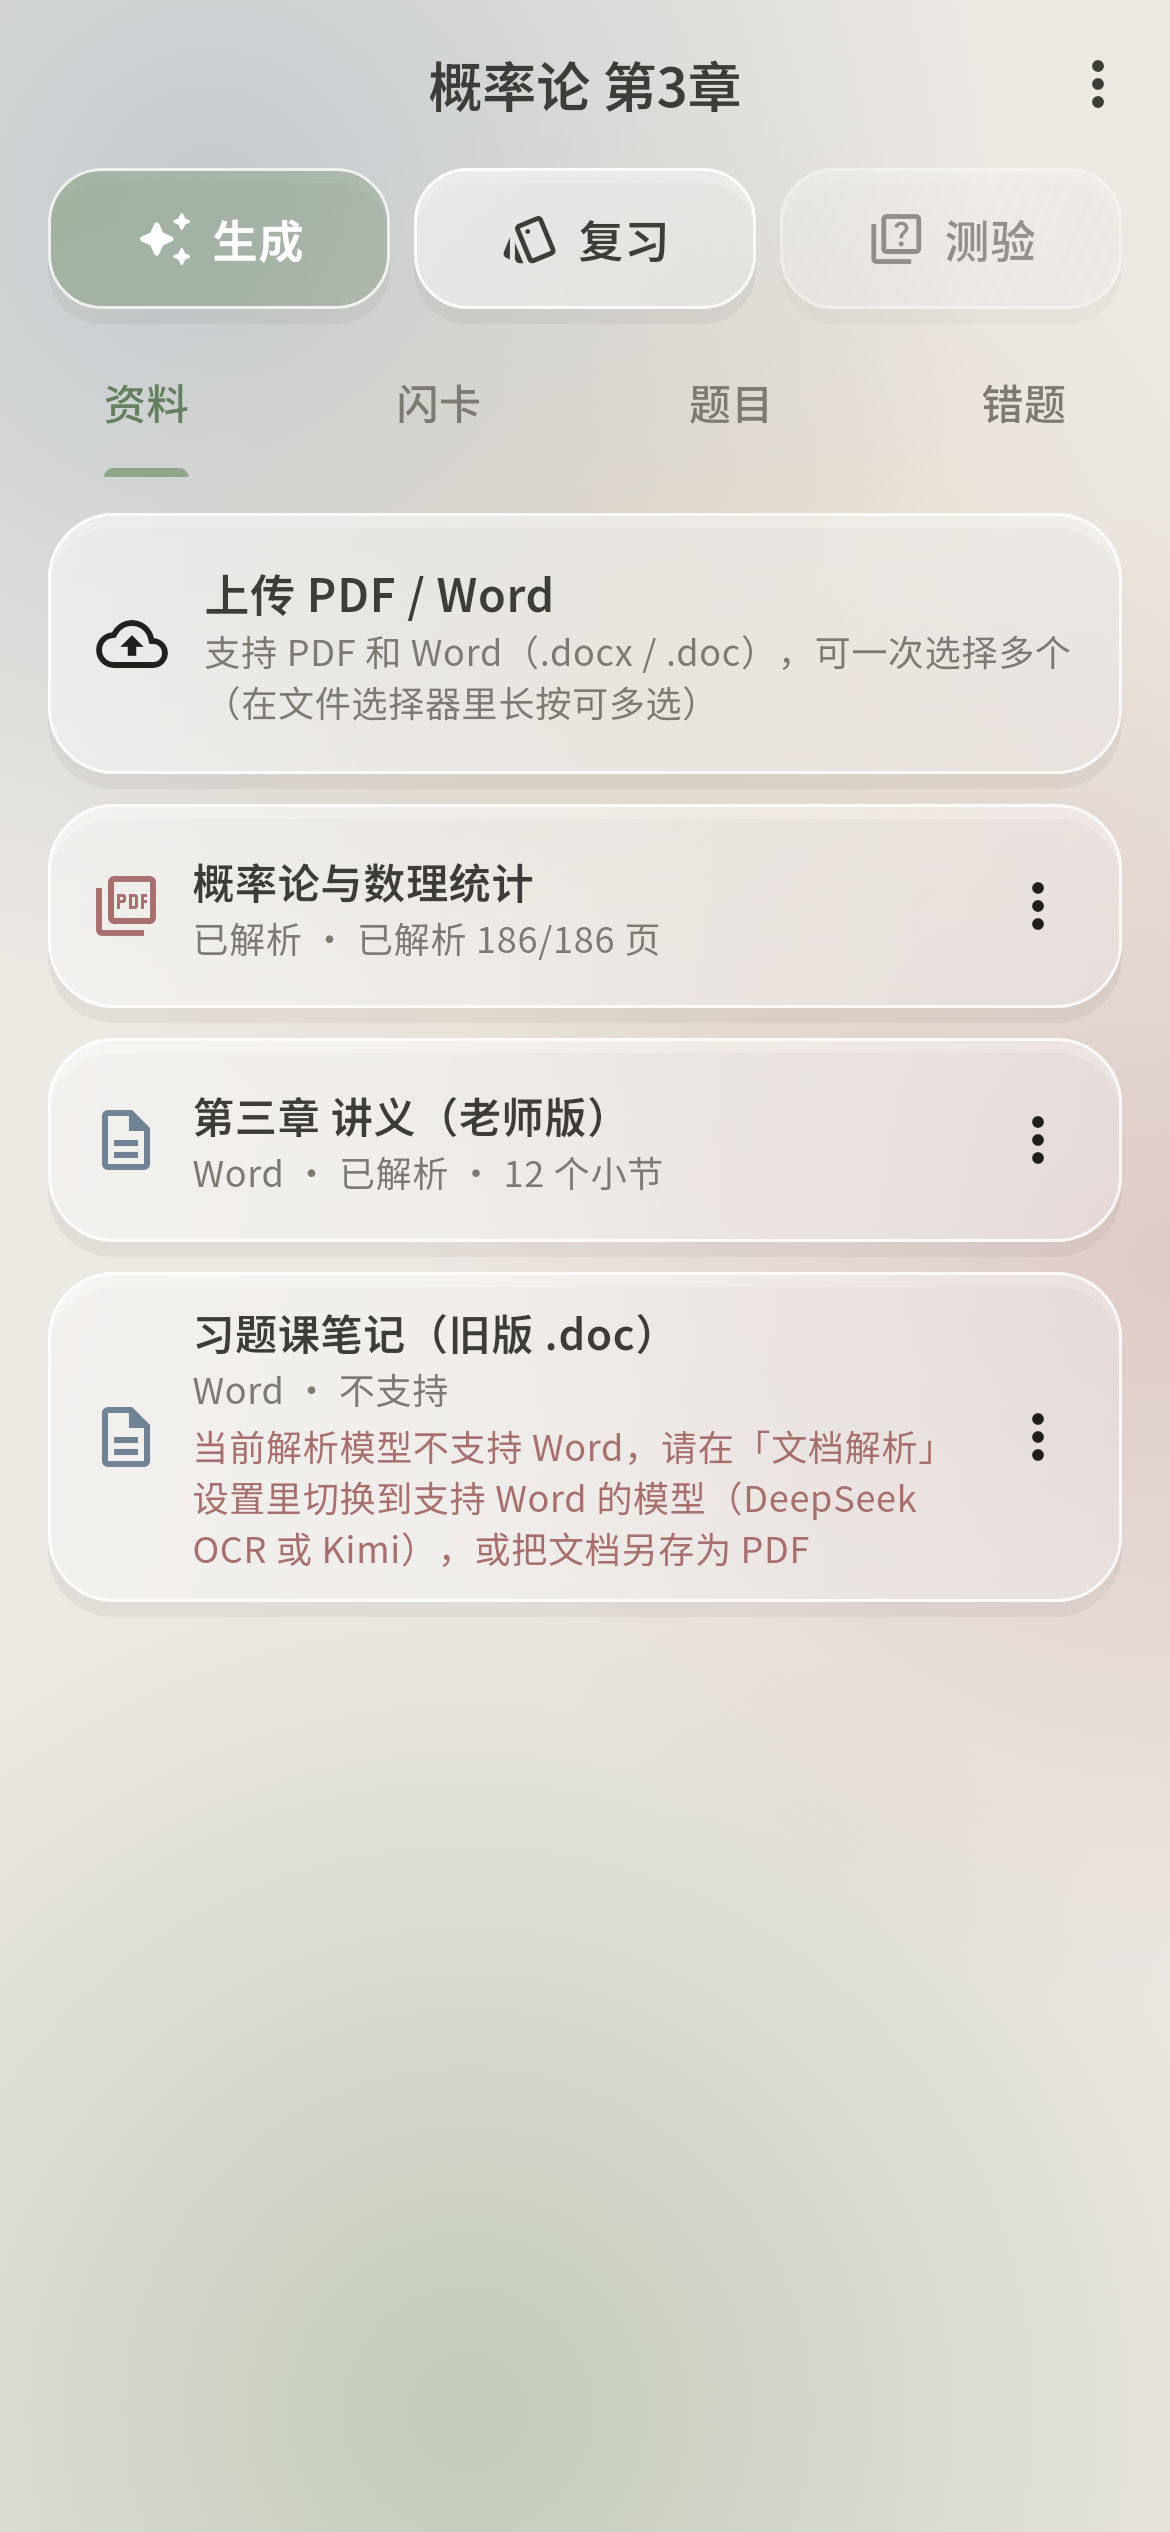
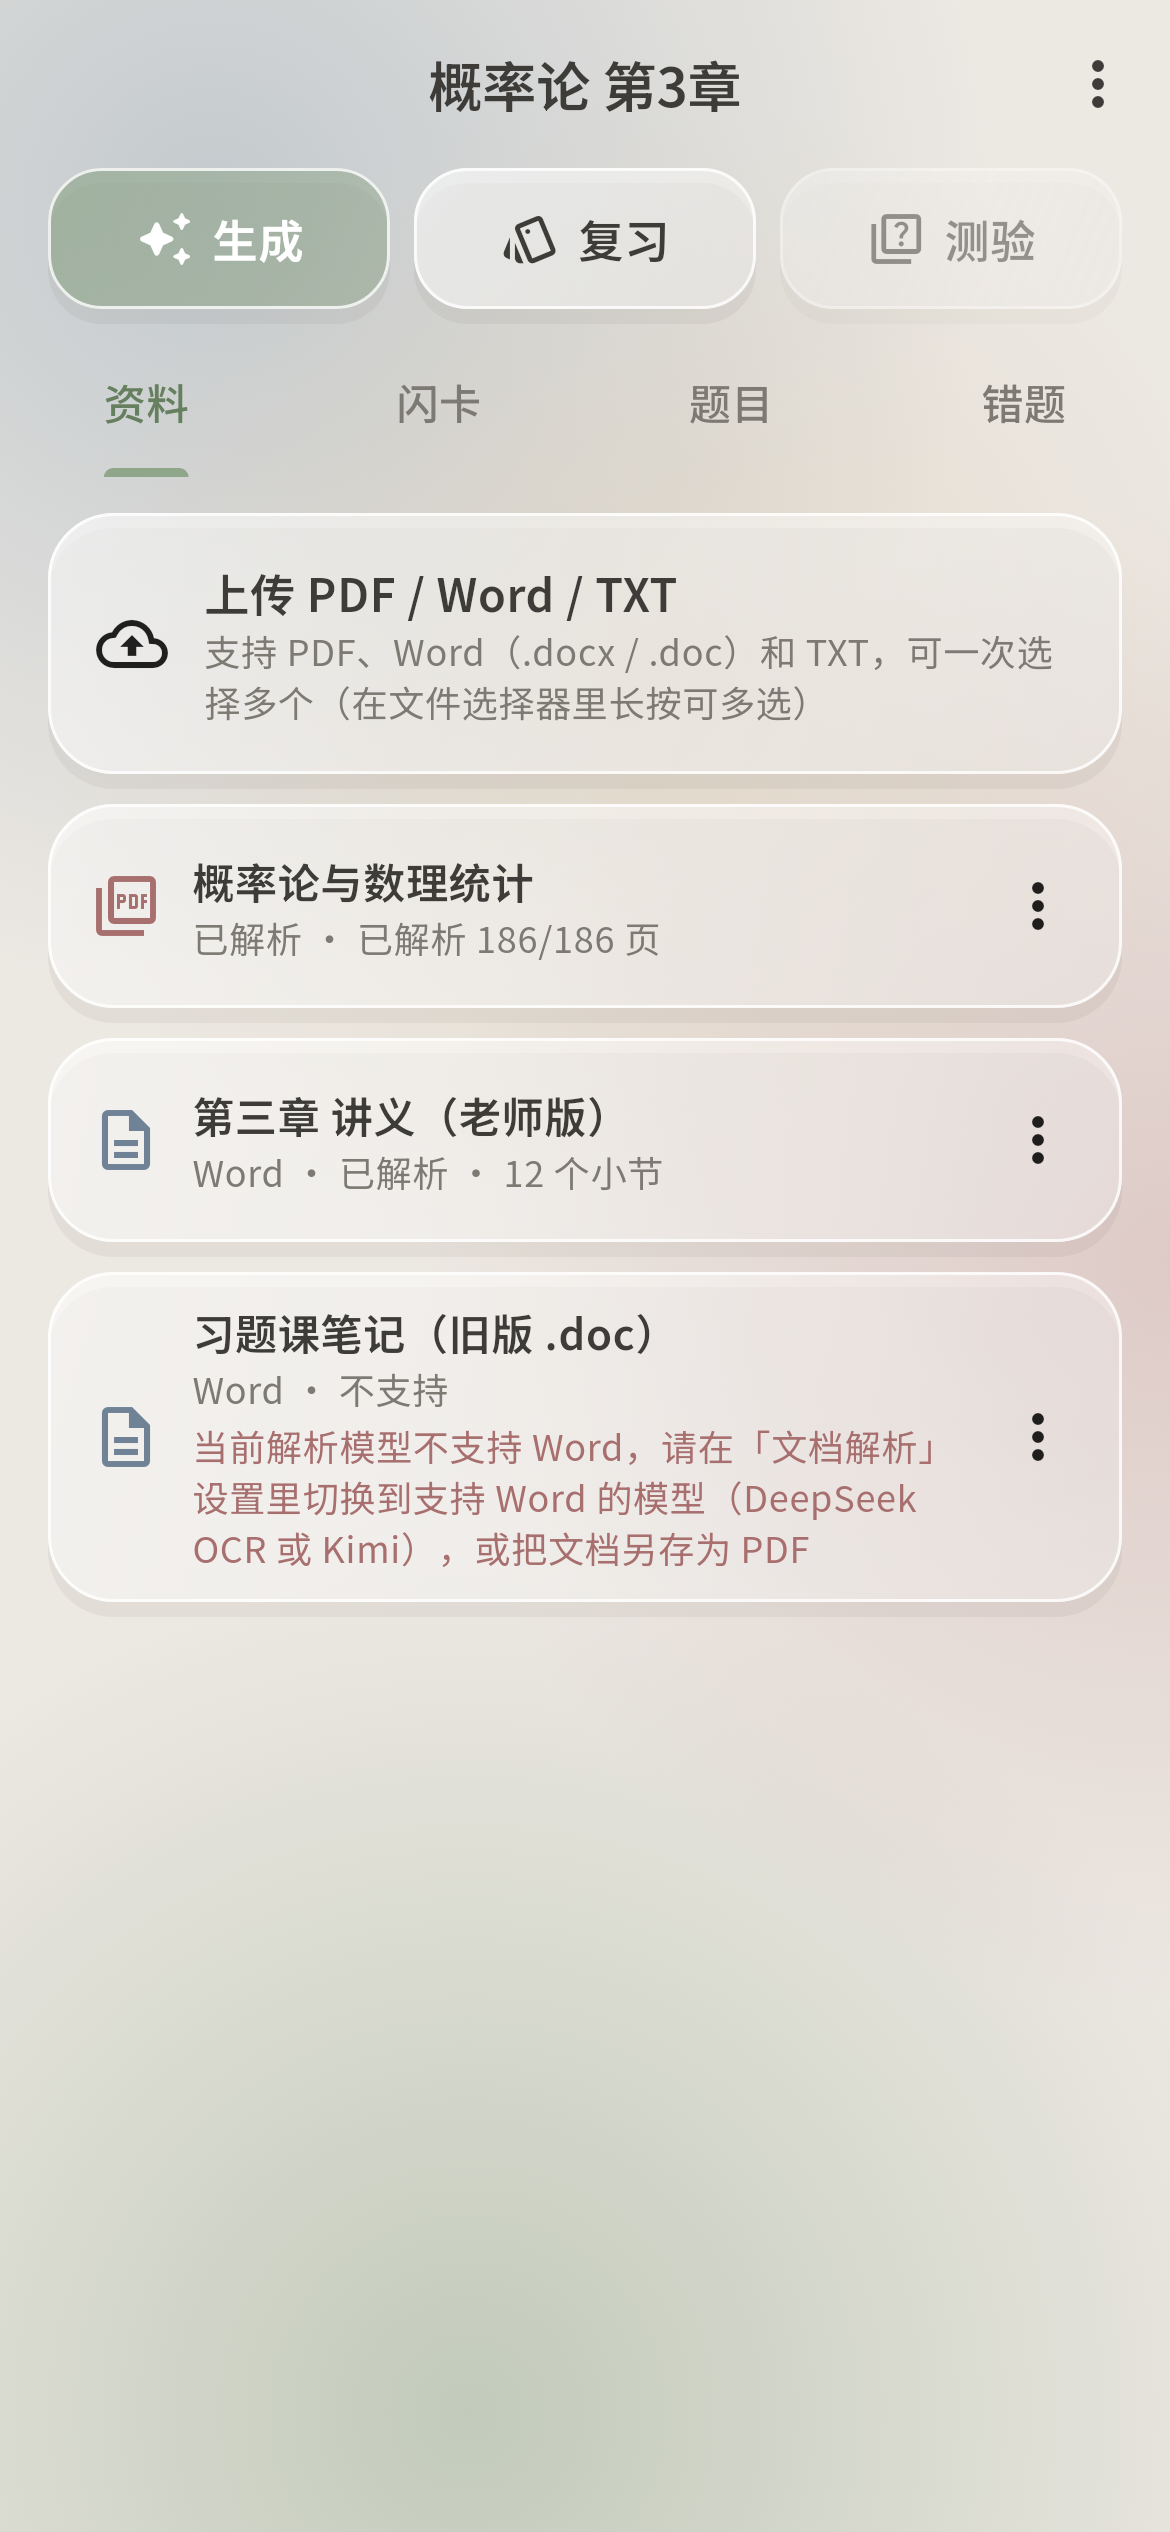
chore: v1.3.5+18 版本号、更新日志与截图

Changed region(s): [[0.1846, 0.2184, 0.7385, 0.2808], [0.7692, 0.2496, 0.8923, 0.2808]]

diff --git a/README.md b/README.md
@@ -16,7 +16,7 @@
 
 </div>
 
-闪卡刷题是一款开源的 Android 学习应用。导入 PDF 或 Word 教材后，AI 会提炼知识点，生成闪卡和多种题型的练习题，并用 FSRS 算法安排复习。公式按教材排版显示，所有学习数据只保存在你的手机上。
+闪卡刷题是一款开源的 Android 学习应用。导入 PDF、Word 或 TXT 教材后，AI 会提炼知识点，生成闪卡和多种题型的练习题，并用 FSRS 算法安排复习。公式按教材排版显示，所有学习数据只保存在你的手机上。
 
 ## 截图
 
@@ -50,13 +50,15 @@
     <td align="center"><img src="docs/screenshots/30_help_article.png" width="190"><br><sub>帮助文章</sub></td>
     <td align="center"><img src="docs/screenshots/31_table_render.png" width="190"><br><sub>表格显示</sub></td>
     <td align="center"><img src="docs/screenshots/32_latex_text.png" width="190"><br><sub>LaTeX 文本格式</sub></td>
+    <td align="center"><img src="docs/screenshots/34_txt_doc.png" width="190"><br><sub>TXT 资料</sub></td>
   </tr>
 </table>
 
 ## 功能
 
 **资料与生成**
-- 支持 PDF 和 Word（.docx / .doc），可批量导入，每份资料单独显示进度
+- 支持 PDF、Word（.docx / .doc）和 TXT，可批量导入，每份资料单独显示进度
+- TXT 在手机上直接读取（不联网、不花钱），自动识别 UTF-8 / UTF-16 / GBK 编码，按段落切成小节后照常分章
 - 扫描版 PDF 也能识别，公式保留为 LaTeX
 - 自动识别章节（书签、目录页、标题格式，识别不到时由 AI 分章），也可手动编辑
 - 章节内容：按页查看每章解析出的原文（公式按教材样式排版），可切换章节、搜索高亮、复制，显示解析来源，一键「用这章出题」
@@ -132,11 +134,13 @@ SHA-256: f5:ec:04:9f:25:ef:21:59:36:28:23:59:4a:08:49:46:f5:66:6d:cc:54:35:19:b9
 | Kimi 文件解析 | ✓ | ✓ | — | 目前免费 |
 | 本地提取文字层 | ✓ | — | — | 免费，离线 |
 
+TXT 不受这里的设置影响，总是在手机上直接读取，免费、离线。
+
 ## 隐私
 
 - 资料、卡片、错题和学习记录只保存在本机，项目没有任何服务器。
 - API Key 存放在系统安全存储（Android Keystore）中。
-- 文档内容只会发送给你配置的服务商；选择「本地提取」时完全不联网。
+- 文档内容只会发送给你配置的服务商；选择「本地提取」时完全不联网；TXT 只在手机上读取，不会上传。
 - 导出的备份默认不含 API Key；只有手动勾选「包含 API 密钥」时才会写入（备份文件不加密，请勿外传）。
 
 ## 常见问题

diff --git a/README.en.md b/README.en.md
@@ -16,7 +16,7 @@
 
 </div>
 
-AI Flashcards (闪卡刷题) is an open-source study app for Android. Import a PDF or Word textbook and AI extracts the key points, generates flashcards and practice questions, and schedules your reviews with the FSRS algorithm. Formulas are typeset like a textbook, and all your study data stays on your phone.
+AI Flashcards (闪卡刷题) is an open-source study app for Android. Import a PDF, Word, or TXT textbook and AI extracts the key points, generates flashcards and practice questions, and schedules your reviews with the FSRS algorithm. Formulas are typeset like a textbook, and all your study data stays on your phone.
 
 > [!NOTE]
 > The app interface is currently available in Simplified Chinese only.
@@ -53,13 +53,15 @@ AI Flashcards (闪卡刷题) is an open-source study app for Android. Import a P
     <td align="center"><img src="docs/screenshots/30_help_article.png" width="190"><br><sub>Help article</sub></td>
     <td align="center"><img src="docs/screenshots/31_table_render.png" width="190"><br><sub>Tables</sub></td>
     <td align="center"><img src="docs/screenshots/32_latex_text.png" width="190"><br><sub>LaTeX text formatting</sub></td>
+    <td align="center"><img src="docs/screenshots/34_txt_doc.png" width="190"><br><sub>TXT files</sub></td>
   </tr>
 </table>
 
 ## Features
 
 **Documents and generation**
-- PDF and Word (.docx / .doc), batch import with per-file progress
+- PDF, Word (.docx / .doc), and TXT, batch import with per-file progress
+- TXT files are read on the phone (offline, free) with automatic UTF-8 / UTF-16 / GBK detection, split into sections at paragraph breaks, then chaptered as usual
 - Scanned PDFs are supported; formulas are kept as LaTeX
 - Automatic chapter detection (bookmarks, table of contents, heading formats, with AI as a fallback), plus a manual chapter editor
 - Chapter content viewer: read the parsed text of each chapter page by page with textbook-style formulas, switch chapters, search with highlighting, copy, see which parser produced it, and generate from that chapter in one tap
@@ -134,6 +136,8 @@ Choose in **我的 → 文档解析（PDF / Word）** (Me → Document parsing):
 | DeepSeek OCR (default) | ✓ | ✓ | ✓ | Per page |
 | Kimi file extraction | ✓ | ✓ | — | Currently free |
 | Local text layer | ✓ | — | — | Free, offline |
+
+TXT files ignore this setting and are always read on the phone, free and offline.
 
 ## Privacy
 

diff --git a/CHANGELOG.md b/CHANGELOG.md
@@ -6,6 +6,22 @@
 
 ## [Unreleased]
 
+## [1.3.5] - 2026-11-21
+
+### 新增
+
+- 支持上传 TXT：在项目页点「上传 PDF / Word / TXT」，可以和 PDF、Word 一起多选。
+  - 在手机上直接读取，不联网、不调用任何接口、不花钱，也不受「文档解析」设置影响。
+  - 自动识别编码：UTF-8（含 BOM）、UTF-16（LE / BE）和 Windows 记事本常用的 GBK；统一换行，去掉 NUL 等控制字符。
+  - 按段落切成约 2000 字一个「小节」（与 Word 一样按小节计数），「第一章」「# 标题」这类章标题从新的一节开始；没有换行的超长段落按句子断开。
+  - 之后照常自动识别章节（标题 / AI 分章 / 按小节数切分），章节编辑、章节内容、出题和出处（「第 N 节」）都可用；解析来源显示为「本地（TXT）」。
+  - 超过 10 MB 的 TXT 上传时会提醒读取和出题较慢。
+- 使用帮助的「上传教材和解析」和「常见问题」补充了 TXT 的说明。
+
+### 改进
+
+- 「常见问题」中公式无法排版的说明更新为当前的显示方式（灰色等宽小字）。
+
 ## [1.3.4] - 2026-11-21
 
 ### 修复
@@ -131,7 +147,8 @@
 - 完整的 LaTeX 公式排版与 Markdown 格式显示。
 - 学习统计页面。
 
-[Unreleased]: https://github.com/HenryHam88/ai-flashcards/compare/v1.3.4...HEAD
+[Unreleased]: https://github.com/HenryHam88/ai-flashcards/compare/v1.3.5...HEAD
+[1.3.5]: https://github.com/HenryHam88/ai-flashcards/compare/v1.3.4...v1.3.5
 [1.3.4]: https://github.com/HenryHam88/ai-flashcards/compare/v1.3.3...v1.3.4
 [1.3.3]: https://github.com/HenryHam88/ai-flashcards/compare/v1.3.2...v1.3.3
 [1.3.2]: https://github.com/HenryHam88/ai-flashcards/compare/v1.3.1...v1.3.2
